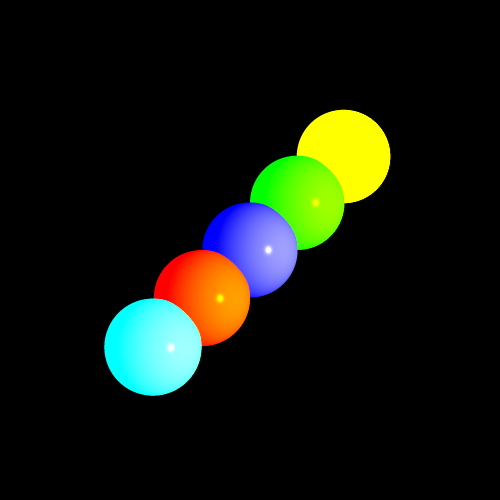
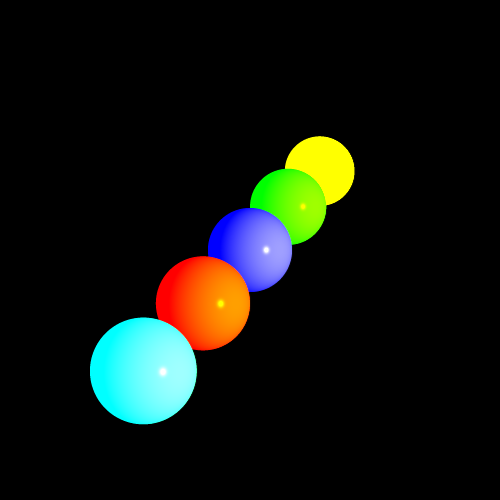
c

diff --git a/src/elements/Camera.java b/src/elements/Camera.java
@@ -37,24 +37,46 @@ public class Camera {
 		Plane focalPlane = new Plane(pointFocalPlane, vTo);
 //		Point3D focalPoint = pcenter.add(vTo.scale(aperture.distanceToFocal));
 		Point3D focalPoint = focalPlane.findGeoIntersections(ray).get(0).point;
-		pcenter = pcenter.add(vTo.scale(-distance));
 		double l = aperture.length;
-		Point3D pIJ;
+//		pcenter = pcenter.add(vTo.scale(-distance/2));
+		pcenter = location;
 		var lstr = new LinkedList<Ray>();
-		for(int Pi = 0; Pi < 6; Pi++) {
-			for(int Pj = 0; Pj < 6; Pj++) {
-				pIJ = calcPIJ(pcenter, l, l, 6, 6, j, i);
-				ray = new Ray(pIJ, focalPoint.subtract(pIJ));
-				lstr.add(ray);
+		var lstp = new LinkedList<Point3D>();
+		Random rand = new Random();
+		Point3D p1 = pcenter.add(vRight.scale(-l/2)).add(vUp.scale(l/2));
+		Point3D p2 = pcenter.add(vRight.scale(l/2)).add(vUp.scale(l/2));
+		Point3D p3 = pcenter.add(vRight.scale(l/2)).add(vUp.scale(-l/2));
+		Point3D p4 = pcenter.add(vRight.scale(-l/2)).add(vUp.scale(-l/2));
+		 lstp.addAll(List.of(p1, p2, p3, p4)); 
+		for (int a= 0;a<150; a++) {
+			double dX = rand.nextDouble()*l;
+			if(dX != 0)
+			{
+				Point3D point3d =p1.add(vRight.scale(dX));
+			lstp.add(point3d);
+			lstp.add(p2.add(vUp.scale(-dX)));
+			lstp.add(p3.add(vRight.scale(-dX)));
+			lstp.add(p4.add(vUp.scale(dX)));
+			}
+			else {
+				a--;
 			}
 		}
-//		Point3D p1 = pcenter.add(vRight.scale(l/2)).add(vUp.scale(l/2));
-//		Point3D p2 = pcenter.add(vRight.scale(-l/2)).add(vUp.scale(l/2));
-//		Point3D p3 = pcenter.add(vRight.scale(l/2)).add(vUp.scale(-l/2));
-//		Point3D p4 = pcenter.add(vRight.scale(-l/2)).add(vUp.scale(-l/2));
-//		var lstp = List.of(p1, p2, p3, p4); 
-//		for (Point3D p: lstp)
-//			lstr.add(new Ray(p,focalPoint.subtract(p)));
+//		
+//		Point3D p11 = pcenter.add(vRight.scale(l/4)).add(vUp.scale(-l/2));
+//		Point3D p21 = pcenter.add(vRight.scale(-l/4)).add(vUp.scale(-l/2));
+//		Point3D p31 = pcenter.add(vRight.scale(l/4)).add(vUp.scale(-l/2));
+//		Point3D p41 = pcenter.add(vRight.scale(-l/4)).add(vUp.scale(-l/2));
+//		Point3D p12 = pcenter.add(vRight.scale(l/2)).add(vUp.scale(-l/4));
+//		Point3D p22 = pcenter.add(vRight.scale(l/2)).add(vUp.scale(l/4));
+//		Point3D p32 = pcenter.add(vRight.scale(l/2)).add(vUp.scale(-l/4));
+//		Point3D p42 = pcenter.add(vRight.scale(l/2)).add(vUp.scale(l/4));
+//		Point3D p13 = pcenter.add(vRight.scale(-l/2)).add(vUp.scale(l/4));
+//		Point3D p23 = pcenter.add(vRight.scale(-l/2)).add(vUp.scale(-l/4));
+//		Point3D p33 = pcenter.add(vRight.scale(-l/2)).add(vUp.scale(l/4));
+//		Point3D p43 = pcenter.add(vRight.scale(-l/2)).add(vUp.scale(-l/4));
+		for (Point3D p: lstp)
+			lstr.add(new Ray(p,focalPoint.subtract(p)));
 		return lstr;
 	}
 	

diff --git a/src/unittests/FocusTests.java b/src/unittests/FocusTests.java
@@ -58,24 +58,24 @@ public class FocusTests {
 	public void Focus2() {
 		
 	Scene scene1 = new Scene("Test scene");
-	Camera camera1 = new Camera(new Point3D(0, 0, 1000), new Vector(0, 0, -1), new Vector(0, 1, 0)) //
+	Camera camera1 = new Camera(new Point3D(0, 0, 800), new Vector(0, 0, -1), new Vector(0, 1, 0)) //
 			.setViewPlaneSize(150, 150) //
-			.setDistance(1000) //
-			.setAperture(200, 10);
+			.setDistance(800) //
+			.setAperture(90, 17);
 
-	Geometry sphere1 = new Sphere(new Point3D(0, 0, -50), 15) //
+	Geometry sphere1 = new Sphere(new Point3D(0, 0, -90), 15) //
 			.setEmission(new Color(java.awt.Color.BLUE)) //
 			.setMaterial(new Material().setkD(0.5).setkS(0.5).setnShininess(100));
-	Geometry sphere2 = new Sphere(new Point3D(15, 15, -60), 15) //
+	Geometry sphere2 = new Sphere(new Point3D(15, 10, -160), 15) //
 			.setEmission(new Color(java.awt.Color.GREEN)) //
 			.setMaterial(new Material().setkD(0.5).setkS(0.5).setnShininess(100));
-	Geometry sphere3 = new Sphere(new Point3D(30, 30, -70), 15) //
+	Geometry sphere3 = new Sphere(new Point3D(30, 20, -280), 15) //
 			.setEmission(new Color(java.awt.Color.YELLOW)) //
 			.setMaterial(new Material().setkD(0.5).setkS(0.5).setnShininess(100));
-	Geometry sphere4 = new Sphere(new Point3D(-15, -15, -40), 15) //
+	Geometry sphere4 = new Sphere(new Point3D(-15, -10, -20), 15) //
 			.setEmission(new Color(java.awt.Color.RED)) //
 			.setMaterial(new Material().setkD(0.5).setkS(0.5).setnShininess(100));
-	Geometry sphere5 = new Sphere(new Point3D(-30, -30, -30), 15) //
+	Geometry sphere5 = new Sphere(new Point3D(-30, -20, 100), 15) //
 			.setEmission(new Color(java.awt.Color.CYAN)) //
 			.setMaterial(new Material().setkD(0.5).setkS(0.5).setnShininess(100));
 	scene1.geometries.add(sphere1, sphere2, sphere3, sphere4, sphere5);
@@ -88,8 +88,8 @@ public class FocusTests {
 			.setImageWriter(imageWriter) //
 			.setCamera(camera1) //
 			.setRayTracerBase(new RayTracerBasic(scene1));
-	//render.renderImage();
-	//render.writeToImage();
+//	render.renderImage();
+//	render.writeToImage();
 	
 	ImageWriter imageWriter2 = new ImageWriter("focus3", 500, 500);
 	Render render2 = new Render()//

diff --git a/src/renderer/Render.java b/src/renderer/Render.java
@@ -83,7 +83,7 @@ public class Render {
 				var lst = camera.getApertureRays(Nx, Ny, j, i);
 				for (Ray ray: lst)
 					color = color.add(rayTracerBase.TraceRay(ray));
-				color = color.reduce(36);
+				color = color.reduce(600);
 				imageWriter.writePixel(j, i, color);
 				}
 			}
